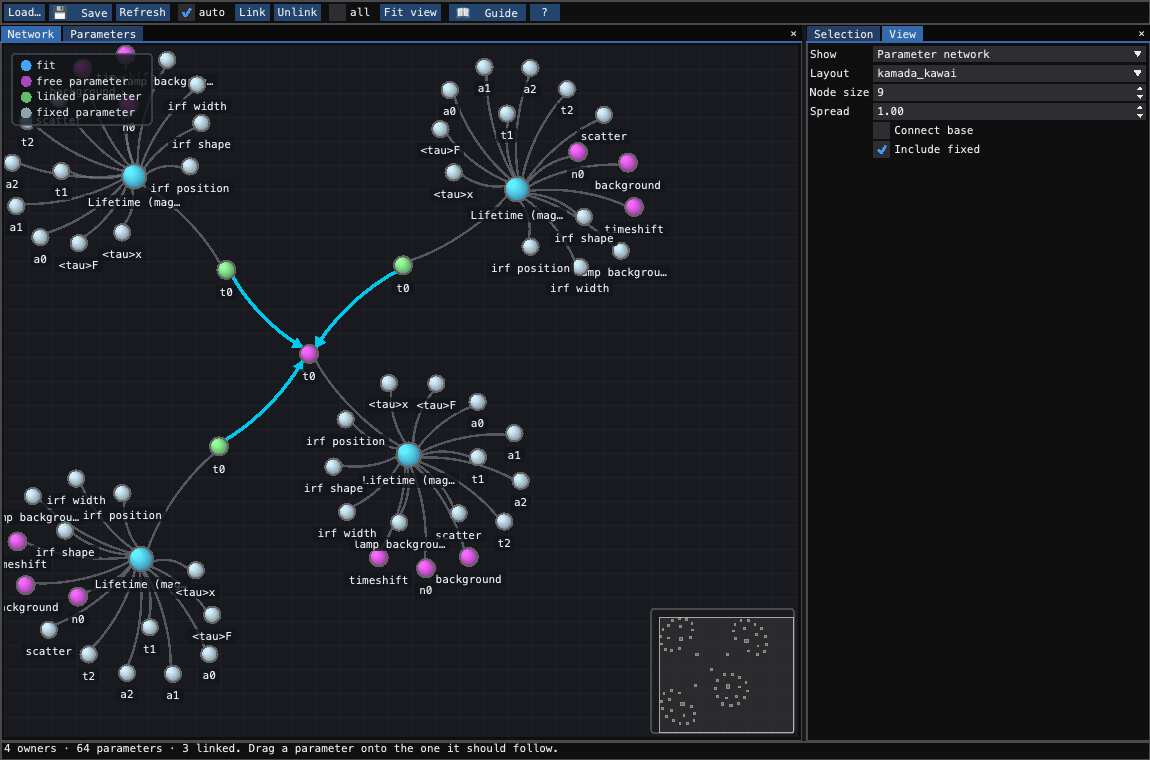
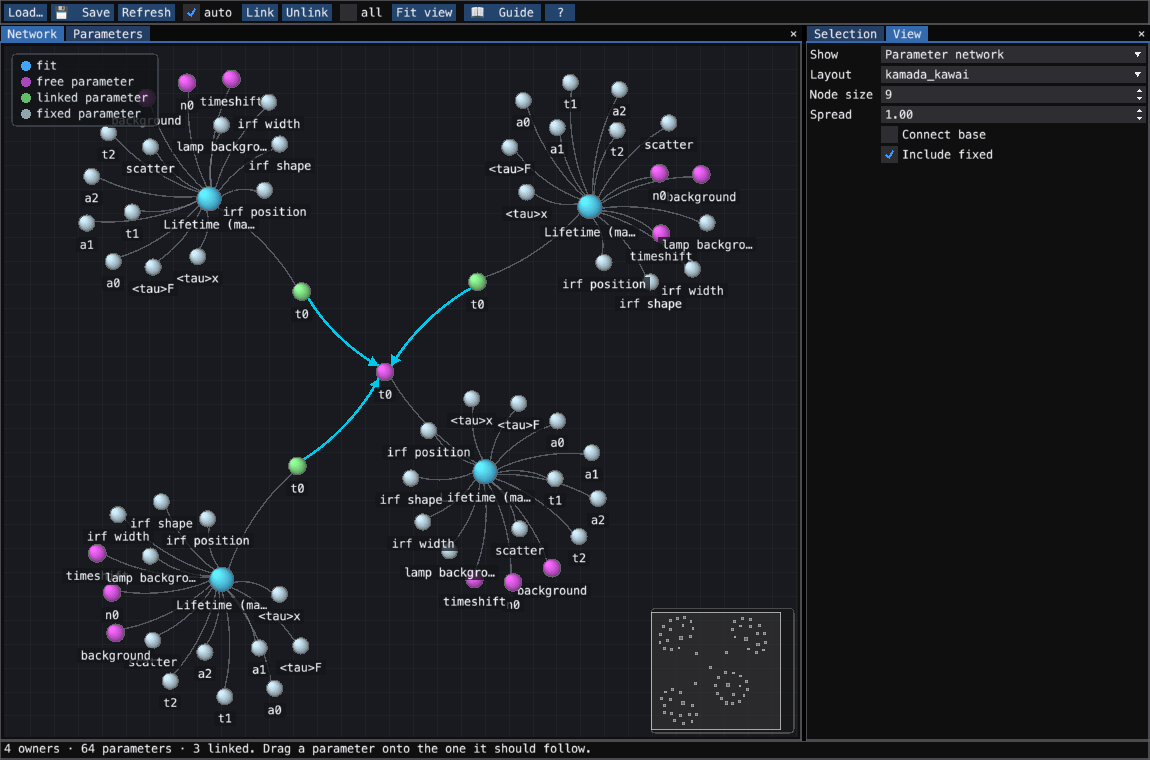
Global View: the emtk app is the only window, the Qt GraphWizard host is retired
gui/tool.py (GraphWizard, a ChisurfDockTool hosting GlobalViewSurface in a ControlHost)
and the wizard.py launcher shim are deleted. gui/app.py has answered every host service
GraphWizard gave the surface (file dialogs, warning, help, guide, debounced fit events,
layout store) with tests/test_emtk_globalview.py against the recorded qt_reference.json.

- Before/after re-captured and read: the Qt window was already the emtk surface (Qt
  inventory empty: every control is drawn by emtk), and the after render carries the same
  toolbar (Load..., Save, Refresh, auto, Link, Unlink, all, Fit view, Guide, ?), the four
  docks and the status line (okf/plugins/emtk-ports/globalview/retire_*.json).
- manifest drops "gui"; the gui package exports only GlobalViewClient.
- Manual figures globalview_{tool,view_tab,include_fixed}.png re-rendered from the emtk app
  (manual_general.py global_view no longer needs a QApplication); identical content.

test/plugin_qt_allowlist.txt: 2 lines struck.

diff --git a/docs/guides/screenshots/manual_general.py b/docs/guides/screenshots/manual_general.py
@@ -322,35 +322,37 @@ def _global_fits():
     return fits
 
 
-def global_view(app) -> None:
+def _global_view_app(fits):
+    """The emtk Global View app on *fits* (no layout kept: a screenshot must not move the user's docks)."""
+    from chisurf.plugins.core.globalview.gui.app import make_app
+    from chisurf.plugins.core.globalview.gui.model import GlobalViewModel
+
+    return make_app(GlobalViewModel(fits=lambda: list(fits)), remember_layout=False)
+
+
+def global_view() -> None:
     """The Global View on four fits sharing a lifetime: the network, then include fixed."""
     import chisurf
     from chisurf.core.api.fitting_client import (
         get_fitting_client,
         install_fitting_client,
     )
-    from chisurf.plugins.core.globalview.gui.tool import GraphWizard
 
     fits = _global_fits()
     saved = chisurf.fits, get_fitting_client()
     install_fitting_client(None)
     chisurf.fits = fits
-    tool = GraphWizard(fit_list=fits, remember_layout=False)
-    tool.resize(1150, 760)
-    tool.show()
-    tool.model.rebuild(force=True)
-    _pump(app, 10)
-    _save(tool, "globalview_tool.png")
-    tool.surface.docks.focus("View")
-    _pump(app, 10)
-    _save(tool, "globalview_view_tab.png")
+    tool = _global_view_app(fits)
+    size = (1150, 760)
+    _native(tool, "globalview_tool.png", size=size)
+    tool.docks.focus("View")
+    _native(tool, "globalview_view_tab.png", size=size)
 
     tool.model.include_fixed = True
     tool.model.node_size = 9
     tool.model.apply_node_size()
     tool.model.rebuild(force=True)
-    _pump(app, 10)
-    _save(tool, "globalview_include_fixed.png")
+    _native(tool, "globalview_include_fixed.png", size=size)
     tool.close()
     chisurf.fits = saved[0]
     install_fitting_client(saved[1])
@@ -362,29 +364,22 @@ def global_view_save_load(s: Session) -> None:
     Driven on the Main's own fits: a loaded link is applied through the fitting
     server, which knows the session's fits (a standalone fixture has none).
     """
-    from chisurf.plugins.core.globalview.gui.tool import GraphWizard
-
     fits = s.cs.fits
     master = fits[0].model.parameters_all_dict["t0"]
     fits[1].model.parameters_all_dict["t0"].link = master
-    tool = GraphWizard(fit_list=fits, remember_layout=False)
-    tool.resize(1150, 760)
-    tool.show()
-    tool.model.rebuild(force=True)
-    _pump(s.app, 10)
+    tool = _global_view_app(fits)
+    size = (1150, 760)
     path = pathlib.Path(tempfile.mkdtemp(prefix="manual-gml-")) / "network.gml"
     tool.model.ask_save_path = lambda *a, **k: str(path)
     tool.model.save_network()
     print("graphml:", *path.read_text(encoding="utf-8").splitlines()[:14], sep="\n", flush=True)
     fits[1].model.parameters_all_dict["t0"].link = None
     tool.model.rebuild(force=True)
-    _pump(s.app, 10)
-    _save(tool, "globalview_before_load.png")
+    _native(tool, "globalview_before_load.png", size=size)
     tool.model.load_network(str(path))
     tool.model.rebuild(force=True)
-    _pump(s.app, 10)
     print("after load:", tool.model.status, flush=True)
-    _save(tool, "globalview_after_load.png")
+    _native(tool, "globalview_after_load.png", size=size)
     tool.close()
 
 
@@ -463,9 +458,7 @@ def main(case_dir: str | None, only: set[str]) -> None:
         session.add_fits()
         global_view_save_load(session)
     if want("global_view"):
-        from qtpy import QtWidgets
-
-        global_view(QtWidgets.QApplication.instance() or QtWidgets.QApplication([]))
+        global_view()
     if want("fcs_hub"):
         fcs_hub()
     if want("tools_montage"):

diff --git a/chisurf/plugins/core/globalview/gui/app.py b/chisurf/plugins/core/globalview/gui/app.py
@@ -1,7 +1,7 @@
 """Native Global View: the emtk surface with the host services the Qt window gave it.
 
-``GraphWizard`` (the Qt tool) hosts the same :class:`.surface.GlobalViewSurface`
-and answers the model's requests -- a file to save or open, a warning, the help
+``GraphWizard`` (the retired Qt tool) hosted the same :class:`.surface.GlobalViewSurface`
+and answered the model's requests -- a file to save or open, a warning, the help
 modal, the guided tour, a refresh when a fit changes, and where the dock layout
 is kept. This app answers them in emtk, so the surface works without Qt.
 

diff --git a/chisurf/plugins/core/globalview/gui/__init__.py b/chisurf/plugins/core/globalview/gui/__init__.py
@@ -1,13 +1,9 @@
-# GlobalView GUI layer; keep Qt hosts lazy for native factory imports.
+"""GlobalView GUI layer: the native emtk app (:func:`.app.make_app`) and its client."""
 
-__all__ = ["GraphWizard", "GlobalViewClient"]
+__all__ = ["GlobalViewClient"]
 
 
 def __getattr__(name):
-    if name == "GraphWizard":
-        from chisurf.plugins.core.globalview.gui.tool import GraphWizard
-
-        return GraphWizard
     if name == "GlobalViewClient":
         from chisurf.plugins.core.globalview.gui.client import GlobalViewClient
 

diff --git a/chisurf/plugins/core/globalview/README.md b/chisurf/plugins/core/globalview/README.md
@@ -35,8 +35,8 @@ The GUI communicates with backend services via ZMQ JSON-RPC for graph building a
 Integration surfaces:
 
 - Python API: `chisurf.plugins.core.globalview.api`
-- GUI: `chisurf.plugins.core.globalview.gui:GraphWizard` (four docks: Network,
-  Parameters, Selection, View)
+- GUI: the emtk app `chisurf.plugins.core.globalview.gui.app:make_app` (four docks:
+  Network, Parameters, Selection, View); the Qt `GraphWizard` host is retired
 - Canonical RPC methods:
   - `globalview.graph.build` - Build parameter relationship graph
   - `globalview.parameters.list` - List all parameters across fits

diff --git a/docs/reference/plugins/globalview.md b/docs/reference/plugins/globalview.md
@@ -21,7 +21,7 @@ Interactive network graph for visualizing and managing parameter relationships a
 | Menu path | Tools → Views → **Global View** |
 | Categories | Tools, Views |
 | Version | 2.0.0 |
-| Surfaces | cli, emtk, gui, services |
+| Surfaces | cli, emtk, services |
 | State namespace | `globalview` |
 
 ## Parameters
